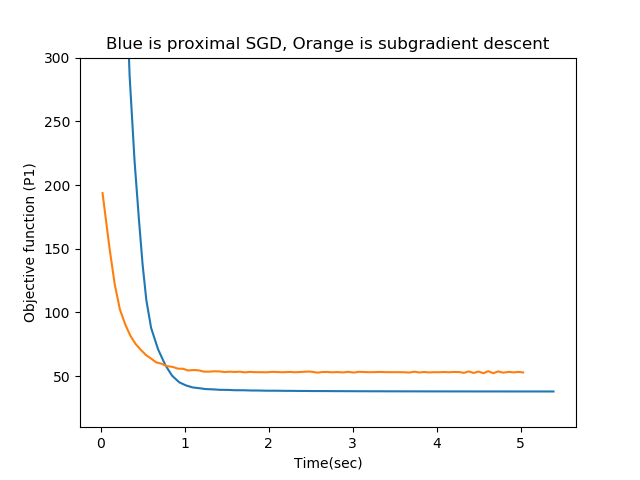
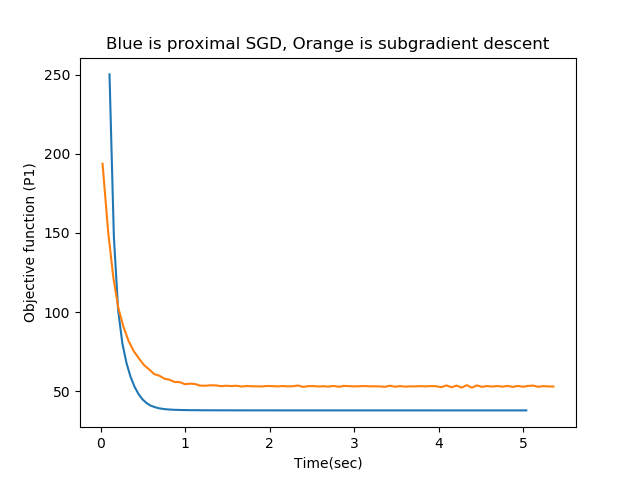
Add files via upload

diff --git a/submit.py b/submit.py
@@ -1,0 +1,120 @@
+import numpy as np
+import random as rnd
+import time as tm
+from numpy import linalg as LA
+import matplotlib.pyplot as plt
+
+# SUBMIT YOUR CODE AS A SINGLE PYTHON (.PY) FILE INSIDE A ZIP ARCHIVE
+# THE NAME OF THE PYTHON FILE MUST BE SUBMIT.PY
+# DO NOT INCLUDE PACKAGES LIKE SKLEARN, SCIPY, KERAS ETC IN YOUR CODE
+# THE USE OF ANY MACHINE LEARNING LIBRARIES FOR WHATEVER REASON WILL RESULT IN A STRAIGHT ZERO
+# THIS IS BECAUSE THESE PACKAGES CONTAIN SOLVERS WHICH MAKE THIS ASSIGNMENT TRIVIAL
+
+# DO NOT CHANGE THE NAME OF THE METHOD "solver" BELOW. THIS ACTS AS THE MAIN METHOD AND
+# WILL BE INVOKED BY THE EVALUATION SCRIPT. CHANGING THIS NAME WILL CAUSE EVALUATION FAILURES
+
+# You may define any new functions, variables, classes here
+# For example, functions to calculate next coordinate or step length
+
+def s_mu(w,u):
+    l=len(w);
+    for i in range(l):
+        if (w[i]>u):
+            w[i]=w[i]-u;
+        elif (w[i]<-u):
+            w[i]=w[i]+u;
+        else:
+            w[i]=0;
+    return w;
+
+################################
+# Non Editable Region Starting #
+################################
+def solver( X, y, timeout, spacing ):
+    (n, d) = X.shape
+    t = 0
+    totTime = 0    
+    # w is the model vector and will get returned once timeout happens
+    w = np.zeros( (d,) )
+    tic = tm.perf_counter()
+################################
+#  Non Editable Region Ending  #
+################################
+    y = np.transpose(np.asmatrix(y))
+    # You may reinitialize w to your liking here
+    # You may also define new variables here e.g. step_length, mini-batch size etc
+    x1=X;y1=y;
+    w=np.zeros((1000, 1));
+    l=1;#hypertuning parameter
+    # ll=1;
+    value=[];
+    timee=[];
+    Graph_time = 0
+    ticc = tm.perf_counter()
+    lembda_1 = 0
+################################
+# Non Editable Region Starting #
+################################
+    while True :
+        t = t + 1
+        if t % spacing == 0:
+            toc = tm.perf_counter()
+            totTime = totTime + (toc - tic)
+            if totTime > timeout:
+                print(value[len(value) - 1 ])
+                plt.plot(timee,value);
+                #plt.show();
+                return (w, totTime)
+            else:
+                tic = tm.perf_counter()
+################################
+#  Non Editable Region Ending  #
+################################
+        x1t=np.transpose(x1);
+        r=1/l;
+        #print(r);
+        df=2*(x1t @ ((x1 @ w)-y1))
+        #print(df)
+        D=w-r*(df);
+        #print(D)
+        w1=s_mu(D,r);
+        #print(w1);
+        while ((LA.norm((x1 @ w1)-y1,2)**2)>(LA.norm((x1 @ w)-y1,2)**2)+np.dot(np.transpose(w1-w),df)+(l/2)*(LA.norm(w1-w,2)**2)):
+            l=l*36;r=1/l;
+            w1=s_mu(D,r);
+        
+        
+        
+        
+        lembda_2 = ( 1 + np.sqrt(1 + 4* lembda_1 * lembda_1) )*0.5
+        beta = (lembda_1 - 1)/ lembda_2
+        
+        w=w1+(beta)*(w1-w)
+        lembda_1 = lembda_2
+        value.append(LA.norm(w,1)+(LA.norm((x1 @ w)-y1,2)**2));
+        tocc = tm.perf_counter()
+        Graph_time = Graph_time + (tocc - ticc)
+        timee.append(Graph_time);
+        ticc = tm.perf_counter()
+        
+        
+        
+        
+
+        # Write all code to perform your method updates here within the infinite while loop
+        # The infinite loop will terminate once timeout is reached
+        # Do not try to bypass the timer check e.g. by using continue
+        # It is very easy for us to detect such bypasses which will be strictly penalized
+        
+        # Please note that once timeout is reached, the code will simply return w
+        # Thus, if you wish to return the average model (as is sometimes done for GD),
+        # you need to make sure that w stores the average at all times
+        # One way to do so is to define a "running" variable w_run
+        # Make all GD updates to w_run e.g. w_run = w_run - step * delw
+        # Then use a running average formula to update w
+        # w = (w * (t-1) + w_run)/t
+        # This way, w will always store the average and can be returned at any time
+        # In this scheme, w plays the role of the "cumulative" variable in the course module optLib
+        # w_run on the other hand, plays the role of the "theta" variable in the course module optLib
+        
+    return (w, totTime) # This return statement will never be reached
